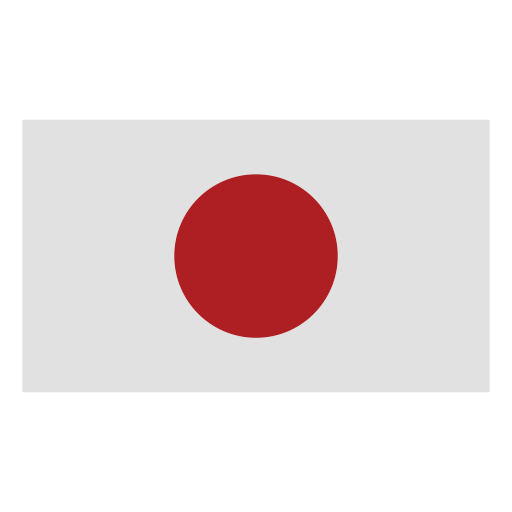
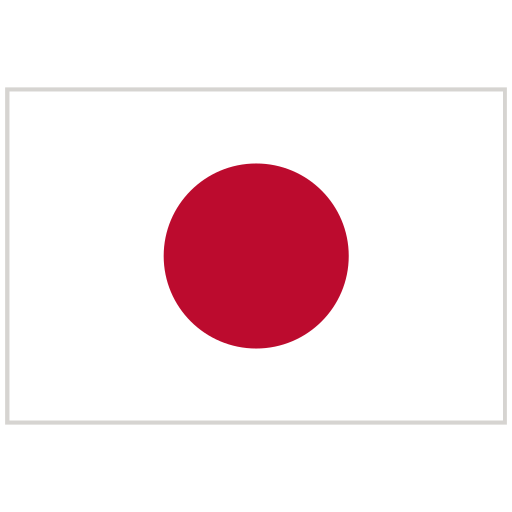
계산기 완성

diff --git a/src/main/webapp/resources/js/calculraterJs.js b/src/main/webapp/resources/js/calculraterJs.js
@@ -1,25 +1,5 @@
 $(document).ready(function() {
-    updateCurrencySelect('#base-currency-select', res);
-    updateCurrencySelect('#result-currency-select', res);
-
-//    console.log('여기로 들어옴');
-//
-//    $.ajax({
-//        url: "/ex/exchange/todayExchange",
-//        type: "POST",
-//        dataType: "json",
-//        success: function(res) {
-//            updateCurrencySelect('#base-currency-select', res);
-//            updateCurrencySelect('#result-currency-select', res);
-//
-//            // 기준 통화 입력값으로 초기 계산
-//            updateExchangeRate();
-//        },
-//        error: function(xhr, status, error) {
-//            console.error("AJAX Error:", status, error);  // 오류 내용 출력
-//            console.error(xhr.responseText);  // 서버에서 응답한 에러 메시지 출력
-//        }
-//    });
+    updateExchangeRate();
 });
 
 function updateCurrencySelect(selectId, rates) {
@@ -35,7 +15,7 @@ function updateCurrencySelect(selectId, rates) {
 }
 
 function currencyConvert(amount, fromCurr, toCurr) {
-    let exchangeAmount = parseFloat(amount);
+    let exchangeAmount = parseFloat(amount.replace(/,/g, ''));
     
     const fromRate = fromCurr.data('rate') || 1;
     const toRate = toCurr.data('rate') || 1;
@@ -48,16 +28,41 @@ function currencyConvert(amount, fromCurr, toCurr) {
     // 결과를 도착 통화의 data-rate로 나누기
     let result = exchangeAmount / toRate;
 
-    if(toCurr.val() === 'JPY' && fromCurr.val() === 'VND' || fromCurr.val() === 'JPY' && toCurr.val() === 'VND') {
-    	return result;
-    }else if(toCurr.val() === fromCurr.val()) {
-    	return result;
-    }else if (toCurr.val() === 'JPY' || toCurr.val() === 'VND' || fromCurr.val() == 'JPY' || fromCurr.val() == 'VND') {
-    	result /= 100;
+    if (toCurr.val() === 'JPY' && fromCurr.val() === 'VND' || fromCurr.val() === 'JPY' && toCurr.val() === 'VND') {
+        return result;
+    } else if (toCurr.val() === fromCurr.val()) {
+        return result;
+    } else if (toCurr.val() === 'JPY' || toCurr.val() === 'VND' || fromCurr.val() == 'JPY' || fromCurr.val() == 'VND') {
+        result /= 100;
     }
-    // 출발 통화가 JPY 또는 VND인 경우 100을 곱함
 
     return result;
+}
+
+function numberWithCommas(val) {
+    // 숫자형 값으로 변환 후 포맷 적용
+    const number = parseFloat(val);
+    if (isNaN(number)) return '';
+    return number.toLocaleString();
+}
+
+function updateResultInput() {
+    const baseCurr = $("#base-currency-select option:selected");
+    const resultCurr = $("#result-currency-select option:selected");
+
+    // 숫자로 변환 후 포맷 적용
+    const baseAmount = $("#base-amount-input").val().replace(/,/g, '');
+    const resultAmount = $("#result-amount-input").val().replace(/,/g, '');
+
+    const beforeFormatted = numberWithCommas(baseAmount) + baseCurr.data('curr');
+    $("#base-result-input").val(beforeFormatted);
+    
+    const afterFormatted = numberWithCommas(resultAmount) + resultCurr.data('curr');
+    $("#result-result-input").val(afterFormatted);
+    
+    // 입력 필드에 포맷 적용
+    $("#base-amount-input").val(numberWithCommas(baseAmount));
+    $("#result-amount-input").val(numberWithCommas(resultAmount));
 }
 
 function updateExchangeRate() {
@@ -67,6 +72,8 @@ function updateExchangeRate() {
 
     const exchangeVal = currencyConvert(baseAmount, baseCurr, resultCurr);
     $("#result-amount-input").val(exchangeVal.toFixed(2));
+
+    updateResultInput();
 }
 
 $("#base-amount-input").keyup(updateExchangeRate);
@@ -77,6 +84,15 @@ $("#result-amount-input").keyup(function() {
     const exchangeVal = currencyConvert(resultAmount, resultCurr, baseCurr);
 
     $("#base-amount-input").val(exchangeVal.toFixed(2));
+    updateResultInput();
 });
 
-$("#base-currency-select, #result-currency-select").change(updateExchangeRate);
+$("#base-currency-select, #result-currency-select").change(function() {
+	updateExchangeRate();
+    const baseCurr = $("#base-currency-select option:selected");
+    const resultCurr = $("#result-currency-select option:selected");
+    const baseImgUrl = "resources/img/gonfalon/"+baseCurr.val()+".png";
+    const resultImgUrl = "resources/img/gonfalon/"+resultCurr.val()+".png";
+    $(".baseImg").attr("src",baseImgUrl);
+    $(".resultImg").attr("src",resultImgUrl);
+});

diff --git a/src/main/webapp/resources/css/exFinder_main.css b/src/main/webapp/resources/css/exFinder_main.css
@@ -179,6 +179,31 @@ input::-webkit-outer-spin-button, input::-webkit-inner-spin-button {
 	box-sizing: border-box; /* padding과 border가 포함된 크기 계산 */
 }
 
+/* selectBoxWrap을 상대적으로 설정 */
+.selectBoxWrap {
+    position: relative; /* img와 select를 절대 위치로 설정하기 위함 */
+    display: inline-block; /* 콘텐츠가 선택박스와 이미지 둘 다 포함할 수 있도록 설정 */
+}
+
+/* img를 select박스의 왼쪽에 배치 */
+.selectBoxWrap > img {
+    position: absolute;
+    left: 10px; /* 왼쪽으로 10px 여백 추가 */
+    top: 35%; /* 수직 중앙 정렬 */
+    transform: translateY(-50%); /* 수직 중앙 정렬 보정 */
+    width: 50px; /* 이미지 크기 조정 */
+    height: 50px; /* 이미지 크기 조정 */
+    z-index: 1; /* select 요소보다 위에 배치 */
+}
+
+/* select 요소에 여백 추가 */
+.selectBoxWrap select {
+    padding-left: 70px; /* 이미지와 겹치지 않도록 왼쪽 패딩 추가 (여백과 크기를 고려하여 조정) */
+    box-sizing: border-box; /* 패딩이 포함된 크기 계산 */
+    position: relative; /* img와의 위치 관계를 위해 상대적 위치 설정 */
+    z-index: 0; /* 이미지보다 뒤에 배치 */
+}
+
 /* 기준 통화 selectbox 스타일 */
 .base-currency-select {
 	width: 350px;

diff --git a/src/main/webapp/resources/js/charts.js b/src/main/webapp/resources/js/charts.js
@@ -91,7 +91,7 @@ $(document).ready(function() {
 // AJAX 요청 함수
 function ajaxData(c_code, chartDivId) {
 
-	var start_date = '2024/08/26'; // 필요한 값으로 수정
+	var start_date = '2024/08/01'; // 필요한 값으로 수정
 	var end_date = formattedDate; // 필요한 값으로 수정
 
 	$.ajax({
@@ -144,6 +144,12 @@ function drawCharts(data, chartDivId) {
 				count : -1
 			}, // 자동 그리드라인 수 조정
 			viewWindowMode : 'maximized',
+			ticks : [
+				new Date(2024,7,1),
+				new Date(2024,7,15),
+				new Date(2024,7,30),
+				new Date(2024,8,6),
+			],
 
 		},
 		vAxis : {
